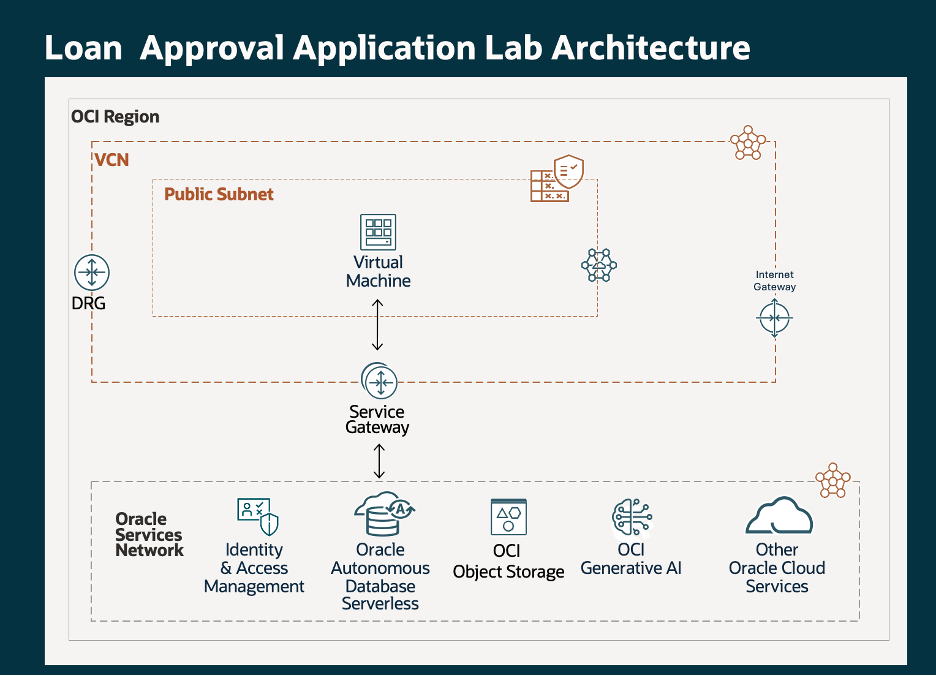
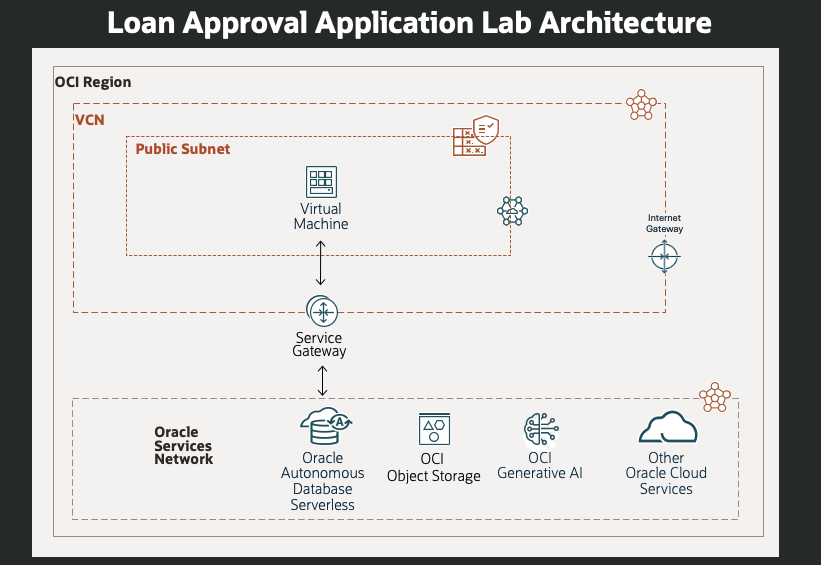
WMS ID#11850 - update application architecture (#398)
* WMS ID#11850

* WMS ID#11850 - Implement feedback

* WMS ID#11850

* ID#11850

* WMS ID#11850

* WMS ID#11850

* WMS ID#11850

diff --git a/dev-guide-ai-finance/app-architecture/app-architecture.md b/dev-guide-ai-finance/app-architecture/app-architecture.md
@@ -13,7 +13,7 @@ Estimated Time: 5 minutes
 
 ## Task 1: Review Physical Architecture
 
-The SeerEquities loan application is deployed in an Oracle Cloud Infrastructure (OCI) Region, with its application layer in a Public Subnet within a VCN. The Application Tier VCN includes an Internet Gateway for outbound access and a Service Gateway for connectivity to Oracle Cloud Services.
+The SeerEquities loan application is deployed in an Oracle Cloud Infrastructure (OCI) Region, with its application layer in a Public Subnet within a Virtual Cloud Network (VCN). The Application Tier VCN includes an Internet Gateway for outbound access and a Service Gateway for connectivity to Oracle Cloud Services.
 
 A Virtual Machine (VM) in the Public Subnet runs two Docker containers:
 
@@ -21,16 +21,66 @@ A Virtual Machine (VM) in the Public Subnet runs two Docker containers:
 
 2. Jupyter Notebook for developers to explore Oracle 23ai Database features & OCI services.
 
-The Application Subnet connects to the Oracle Services Network via the Service Gateway, allowing access to Autonomous Database Serverless, OCI Generative AI Services, OCI Object Storage, and other Oracle Cloud Services.
+The Application Subnet connects to the Oracle Services Network via the Service Gateway, allowing access to Autonomous Database Serverless, OCI Generative AI Services, OCI Object Storage, and other Oracle Cloud Services. This architecture ensures seamless, scalable, and secure operation of the application with high availability and access to Oracle’s cloud-native features.
 
 ![Login](./images/physical.png " ")
 
+* **Public Subnet**: A Public Subnet is a segment of a Virtual Cloud Network (VCN) in Oracle Cloud Infrastructure (OCI) where resources, like virtual machines (VMs), are placed and can directly communicate with the internet. Resources in a public subnet are assigned public IP addresses, allowing them to be accessible from outside the VCN.
+
+* **Virtual Cloud Network (VCN**): A VCN is a private network in Oracle Cloud that you create to host your cloud resources. It acts as the backbone of your infrastructure, providing isolation and control over the flow of traffic between resources, both within OCI and to the outside world.
+
+* **Internet Gateway**: The Internet Gateway is a component of a VCN that provides a path for outbound and inbound traffic between the VCN and the internet. In your setup, the Internet Gateway allows the application layer to have outbound access to the internet.
+
+* **Service Gateway**: A Service Gateway enables private connectivity between your VCN and Oracle Cloud Services like Autonomous Database, Oracle AI services, and Object Storage, without going through the public internet. This ensures secure, fast, and reliable communication between the VCN and Oracle’s cloud-native services.
+
+* **Virtual Machine (VM)**: A Virtual Machine is an emulation of a physical computer within Oracle Cloud. It runs an operating system and applications, just like a physical server. In your setup, the VM runs two Docker containers that host specific applications—Streamlit and Jupyter Notebook.
+
+* **Autonomous Database Serverless**: Autonomous Database Serverless is a fully managed, scalable, and self-driving database service provided by Oracle. It automatically handles performance tuning, patching, and scaling. This service is typically used for applications that need robust, scalable, and self-managed database capabilities without manual intervention.
+
+* **OCI Generative AI Services**: OCI Generative AI Services provide cloud-based tools and services powered by artificial intelligence models to generate new content, such as images, text, or insights. These services are integrated with other OCI resources to enable smart applications, like generating loan approvals or analyzing data.
+
+* **OCI Object Storage**: OCI Object Storage is a service that allows you to store large amounts of unstructured data, such as images, videos, backups, or application logs. It is scalable, durable, and accessible from anywhere, and is often used to store files that need to be accessed by applications and services within OCI.
+
 ## Task 2: Review Logical Architecture
+
+This diagram represents the logical architecture of the **SeerEquities Loan Management Application**, showcasing the integration of modern data and AI technologies for efficient loan processing and management.
+
+* **Application VM (Docker Container)**:
+At the heart of the application is a containerized environment hosting a Streamlit application built with Python, connecting to OracleDB for data operations. This setup allows for rapid UI development and seamless data integration.
+
+* **End Users**:
+
+    * **Loan Applicants** interact with the application to submit and manage loan requests.
+
+    * **Application Developers** work within the containerized environment to maintain and enhance the application.
+
+* **Core Data Platform – Oracle 23ai**:
+The backend is powered by **Oracle 23ai**, supporting a wide variety of data types and features:
+
+    * **Data Types**: Structured, Semi-structured, and Unstructured Data.
+
+    * **Advanced Capabilities**: JSON Duality Views, Functions, Property Graph, and External Table Support (Iceberg/Delta Lake).
+
+    * **AI Integrations**: Supports **AI ONNX Models**, embedded **AI Features**, and seamless access to **Private Data** and **Shared Data Products**.
+
+* **AI Features Module**:
+Enriches the application with cutting-edge capabilities including:
+
+    * **Vector Search**
+
+    * **Retrieval-Augmented Generation (RAG)**
+
+    * **GenAI via Oracle Cloud Infrastructure (OCI)**
+
+    * And additional AI services.
+
+* **Cloud Integration**:
+Utilizes **Cloud LLMs** and **Object Storage** to enhance scalability, enable generative capabilities, and store large datasets.
 
 ![Login](./images/logical.png " ")
 
 
 ## Acknowledgements
-* **Authors** - Linda Foinding, Francis Regalado
-* **Contributors** - Kamryn Vinson, Eddie Ambler, Kevin Lazarz
-* **Last Updated By/Date** - Linda Foinding, April 2025
+* **Authors** - Kamryn Vinson, Linda Foinding, Francis Regalado
+* **Contributors** - Eddie Ambler, Kevin Lazarz
+* **Last Updated By/Date** - Kamryn Vinson, April 2025

diff --git a/dev-guide-ai-finance/json-exercise/json-exercise.md b/dev-guide-ai-finance/json-exercise/json-exercise.md
@@ -12,7 +12,7 @@ This is your opportunity to sharpen your skills and explore the power of JSON.
 
 **Are you up for the challenge?**
 
-If you're ready to dive in, proceed with this lab and start coding. If you prefer a more guided approach with a detailed walkthrough, you can continue to Lab 6b Step-by-step: JSON Duality Views for step-by-step instructions.
+If you're ready to dive in, proceed with this lab and start coding. If you prefer a more guided approach with a detailed walkthrough, you can continue to Lab 7b Step-by-step: JSON Duality Views for step-by-step instructions.
 
 Good luck, and enjoy the process!
 
@@ -42,12 +42,25 @@ This challenge consists of **three steps**:
 * Second, calculate the average age across the client base using the corrected information.
 * Third, use JSON Duality Views to run SQL queries on the updated data.
 
-## Task 2: Update application frontend
+## Task 2: Update Application Frontend
 
 The company has requested an enhancement to the current customer data and would now like to see the parameter for **age** to be reflected.
 
-1. In the Customer.py file, find the # 🔍 Customer Details Section at line 219
-2. Update the section to include a new parameter for **age**.
+1. Click **Pages**.
+
+    ![Click Pages](./images/click-pages.png " ")
+
+2. Select the **Customers.py** file.
+
+    ![Click Customers.py](./images/customers-py.png " ")
+
+3. In the Customer.py file, find the # 🔍 Customer Details Section at line 219
+
+4. Update the section to include a new parameter for **age**.
+
+5. Save the Customers.py file.
+
+    ![Save Customers.py](./images/save-customers-py.png " ")
 
 ## Task 3: Analyzing the Complete Client Data 
 

diff --git a/dev-guide-ai-finance/json-answers/json-answers.md b/dev-guide-ai-finance/json-answers/json-answers.md
@@ -33,12 +33,25 @@ This challenge consists of **three steps**:
 * Second, calculate the average age across the client base using the corrected information.
 * Third, use JSON Duality Views to run SQL queries on the updated data.
 
-## Task 2: Update application frontend
+## Task 2: Update Application Frontend
 
 The company has requested an enhancement to the current customer data and would now like to see the parameter for **age** to be reflected.
 
-1. In the Customer.py file, find the # 🔍 Customer Details Section at line 219
-2. Update the section to include a new parameter for **age**.
+1. Click **Pages**.
+
+    ![Click Pages](./images/click-pages.png " ")
+
+2. Select the **Customers.py** file.
+
+    ![Click Customers.py](./images/customers-py.png " ")
+
+3. In the Customer.py file, find the # 🔍 Customer Details Section at line 219
+
+4. Update the section to include a new parameter for **age**.
+
+5. Save the Customers.py file.
+
+    ![Save Customers.py](./images/save-customers-py.png " ")
 
 ## Task 3: Analyzing the Complete Client Data 
 

diff --git a/dev-guide-ai-finance/ai-exercise/ai-exercise.md b/dev-guide-ai-finance/ai-exercise/ai-exercise.md
@@ -32,7 +32,7 @@ This is your opportunity to sharpen your skills, explore the power of AI-driven 
 
 **Are you up for the challenge?**
 
-If you're ready to dive in, proceed with this lab and start coding. If you prefer a more guided approach with a detailed walkthrough, you can continue to Lab 4b Step-by-step: Code with AI Vector Search for step-by-step instructions.
+If you're ready to dive in, proceed with this lab and start coding. If you prefer a more guided approach with a detailed walkthrough, you can continue to Lab 5b Step-by-step: Code with AI Vector Search for step-by-step instructions.
 
 Good luck, and enjoy the process!
 

diff --git a/dev-guide-ai-finance/graph-exercise/graph-exercise.md b/dev-guide-ai-finance/graph-exercise/graph-exercise.md
@@ -18,7 +18,7 @@ This is your opportunity to sharpen your skills with Oracle Graph and help creat
 
 **Are you up for the challenge?**
 
-If you're ready to dive in, proceed with this lab and start coding. If you prefer a more guided approach with a detailed walkthrough, you can continue to Lab 5b Step-by-step: Code Property Graph for step-by-step instructions.
+If you're ready to dive in, proceed with this lab and start coding. If you prefer a more guided approach with a detailed walkthrough, you can continue to Lab 6b Step-by-step: Code Property Graph for step-by-step instructions.
 
 Good luck, and enjoy the process!
 
